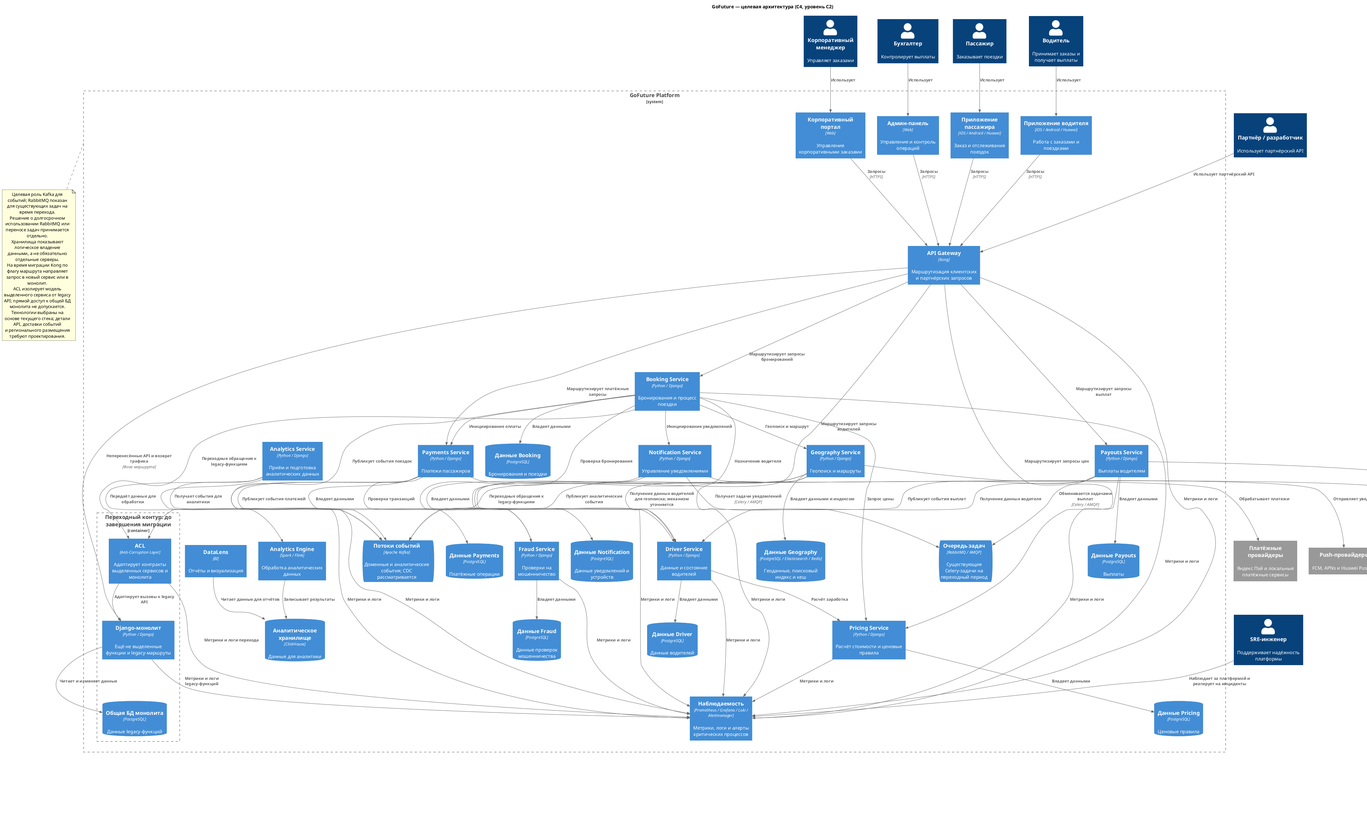
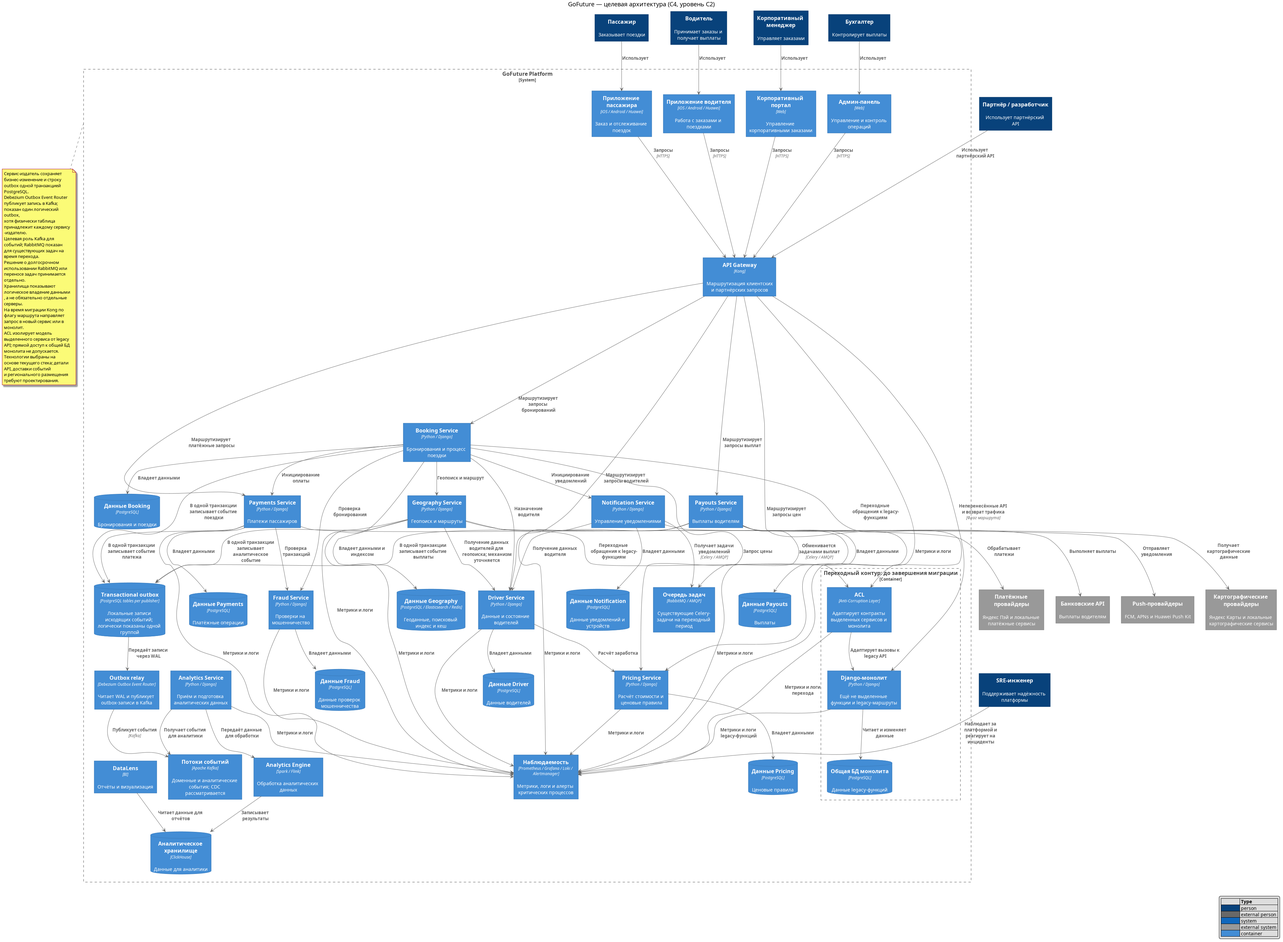
feat: add transactional outbox

diff --git a/tasks/task_1/ADR/ADR-003-kafka-rabbitmq-migration.md b/tasks/task_1/ADR/ADR-003-kafka-rabbitmq-migration.md
@@ -10,13 +10,13 @@
 
 ## Решение
 
-Предлагается использовать **Apache Kafka как целевую платформу для доменных событий и аналитических потоков**, а также рассмотреть её для доставки CDC-событий. RabbitMQ сохраняется для существующих Celery-задач на переходный период. Перенос задач на Kafka или сохранение RabbitMQ как специализированной очереди — отдельное решение по результатам оценки каждого сценария. Наличие двух брокеров во время перехода принимается как осознанная эксплуатационная стоимость, но не означает обязательное существование постоянного моста между ними.
+Предлагается использовать **Apache Kafka как целевую платформу для доменных событий и аналитических потоков**, а также рассмотреть её для доставки CDC-событий. Сервис, который меняет свои данные и публикует доменное или аналитическое событие, записывает его в **transactional outbox** в той же транзакции PostgreSQL. Debezium Outbox Event Router читает эти записи из WAL и публикует их в Kafka. RabbitMQ сохраняется для существующих Celery-задач на переходный период. Перенос задач на Kafka или сохранение RabbitMQ как специализированной очереди — отдельное решение по результатам оценки каждого сценария. Наличие двух брокеров во время перехода принимается как осознанная эксплуатационная стоимость, но не означает обязательное существование постоянного моста между ними.
 
 Kafka может обеспечить независимое чтение событий несколькими группами потребителей, повторное чтение в пределах срока хранения и высокую пропускную способность. Это не гарантирует автоматически более низкую задержку или высокую надёжность: для конкретной нагрузки необходимы испытания, корректная конфигурация и операционная готовность. Синхронные вызовы между сервисами не ускоряются автоматически от внедрения Kafka.
 
 | Вид взаимодействия | Предварительный выбор | Условия |
 |--------------------|-----------------------|---------|
-| Доменные события и аналитика | Kafka | Согласовать схему событий, ключи, хранение и потребителей; оценить возможность восстановления и повторного чтения. |
+| Доменные события и аналитика | Transactional outbox → Debezium Outbox Event Router → Kafka | Сервис сохраняет outbox-запись вместе с бизнес-изменением; согласовать схему событий, ключи, хранение и потребителей. |
 | CDC из PostgreSQL | Debezium → Kafka | Совместимость PostgreSQL, Debezium и Kafka подтверждена; проверить настройки, нагрузку и восстановление в пилоте. |
 | Существующие фоновые задачи Celery | RabbitMQ на переходный период | Сохранить работающие очереди, обработчики и наблюдаемость; перенос задачи проектируется отдельно. |
 | Новые или переносимые задачи с побочными эффектами | Выбор после оценки сценария | Согласовать повторы, отложенное выполнение, обработку ошибок, идемпотентность и совместимость обработчиков; Kafka не является прозрачной заменой RabbitMQ. |
@@ -26,7 +26,13 @@ Kafka может обеспечить независимое чтение соб
 - Для каждого потока определить владельца, источник истины, производителей, потребителей, контракт и версию схемы, ключ события, порядок и срок хранения с учётом требований безопасности и локализации.
 - Конфигурацию репликации и подтверждений, доступность, запас ёмкости и восстановление Kafka и RabbitMQ проверить испытаниями; согласовать допустимые задержки и объём потери данных. Порядок Kafka обеспечивается в пределах одной партиции, а не всего топика.
 - Использовать устойчивые идентификаторы событий и идемпотентные обработчики; предусмотреть повторную доставку, ошибки обработки и восстановление потребителей. Kafka и RabbitMQ не гарантируют сами по себе однократное выполнение внешнего платежа или выплаты.
-- Для согласованной записи в БД и публикации доменного события рассмотреть transactional outbox или другой проверенный механизм. Не считать независимую запись в БД и отправку в брокер атомарной операцией. Для платежей и выплат сохранять ключи идемпотентности и сверять результат с провайдерами.
+- Transactional outbox обязателен для сервисов-издателей доменных и аналитических событий. Запись бизнес-изменения и строки outbox выполняются в одной транзакции PostgreSQL; Debezium публикует запись отдельно. Независимую запись в БД и прямую отправку в брокер нельзя считать атомарной. Для платежей и выплат сохранять ключи идемпотентности и сверять результат с провайдерами.
+
+### Граница transactional outbox
+
+Outbox — это таблица **в БД каждого сервиса-издателя**, а не общая таблица платформы. Её строка содержит технический `outboxId`, тему, Kafka key, payload и время создания. Outbox Event Router передаёт `outboxId` как транспортную метаинформацию; он не заменяет бизнес-ключи и идемпотентность потребителей. Повторная публикация одной строки возможна и должна быть безопасно обработана получателем.
+
+Debezium для outbox отличается от CDC в миграции данных. Outbox передаёт намеренно сформированные доменные сообщения текущего владельца данных; CDC из PostgreSQL → Debezium → Kafka в [плане миграции](data-migration-plan.md) передаёт изменения старой БД во время её переноса. Эти потоки настраиваются и мониторятся отдельно.
 - Мониторить доступность, ошибки, задержки, отставание потребителей и заполнение хранилища; определить ответственных и проверить восстановление. Показатели и пороги согласовать до промышленного переключения.
 
 ## Переход и сосуществование брокеров

diff --git a/tasks/task_2/README.md b/tasks/task_2/README.md
@@ -11,13 +11,14 @@
 - Для координации процесса предложена **Parallel Saga** с асинхронным обменом и итоговой согласованностью. Независимые шаги могут выполняться параллельно, если это допускают бизнес-правила и доступны необходимые данные.
 - Для отдельного от Booking оркестратора предварительно выбрана **Camunda 8 Self-Managed**. BPMN-процесс управляет шагами, ожиданиями, повторами и компенсациями; бизнес-операции выполняют сервисы-владельцы данных.
 - **Apache Kafka** предлагается для команд и событий. Kafka-адаптер связывает Camunda с брокером, а Python-сервисы используют потребителей на `confluent-kafka-python`. Способ интеграции адаптера и обработку сбоев ещё нужно спроектировать и проверить.
+- Сервис-участник сохраняет локальный результат и исходящее событие в **transactional outbox** одной транзакцией PostgreSQL; Debezium Outbox Event Router публикует запись в Kafka. Это не делает состояние Camunda и Kafka атомарными — восстановление адаптера проектируется отдельно.
 - Kafka key содержит **UUID региона владения заказом**. Описаны структура сообщений, правила повторов и DLQ для групп потребителей; порядок между разными топиками не гарантируется.
 - На переходный период функции, остающиеся в монолите, доступны через **ACL**, а существующие задачи Celery могут продолжать использовать **RabbitMQ**.
 - Для наблюдаемости предложены **Prometheus / TSDB и Alertmanager** для метрик и алертов, **Grafana Alloy и Loki с Yandex Object Storage** для логов, **OpenTelemetry и Jaeger с отдельным Elasticsearch** для трассировок. Grafana используется для просмотра данных.
 
 ## Процесс саги
 
-1. Booking создаёт заказ и публикует событие для запуска саги.
+1. Booking создаёт заказ и записывает событие запуска саги в transactional outbox; Debezium публикует его в Kafka.
 2. Geography проверяет зону; затем выполняются необходимые расчёт стоимости, проверка Fraud и поиск водителя. Допустимые независимые шаги могут выполняться параллельно.
 3. Driver назначает водителя, а Booking подтверждает заказ после успешного завершения обязательных шагов.
 4. Оркестратор сохраняет состояние ожидания завершения поездки. После её завершения Pricing рассчитывает итоговую стоимость, а Payments проводит оплату; результат фиксируется в Booking.

diff --git a/tasks/task_2/booking-saga/ADR/ADR-003-commands-and-events.md b/tasks/task_2/booking-saga/ADR/ADR-003-commands-and-events.md
@@ -65,7 +65,7 @@
 
 - **Событие — не команда.** Например, `AssignDriver` — команда оркестратора сервису Driver; `DriverAssigned` — сообщение о результате. Каждая команда адресована конкретному получателю.
 - **Оркестратор управляет сагой.** События участников помогают ему определить следующий шаг, но не заменяют согласованные команды, таймауты и правила компенсаций. При параллельном выполнении необходимо учитывать поздние результаты, в том числе назначение водителя после начала отмены.
-- **Повторная доставка возможна.** Участники безопасно обрабатывают дубликаты по бизнес-данным и ограничениям своей модели. Для согласованной записи состояния и публикации сообщения предусматривается transactional outbox или другой проверенный механизм.
+- **Повторная доставка возможна.** Участники безопасно обрабатывают дубликаты по бизнес-данным и ограничениям своей модели. Для согласованной записи локального состояния и исходящего события используется transactional outbox; Debezium Outbox Event Router публикует строку outbox в Kafka.
 - **Идентификация и версия.** Общие поля, ключ региона и формат команд и событий предварительно описаны в [ADR-004](ADR-004-kafka-topics-and-messages.md). Универсальные `messageId` и `operationId` не вводятся; способ различать повторные и поздние результаты шага ещё требуется спроектировать.
 - **Ошибки и неизвестный результат.** Отсутствие ответа не означает, что команда не выполнена. Для каждой операции нужно определить время ожидания, безопасный повтор и способ проверить состояние участника. В частности, события отказа для `ConfirmBooking` и `CancelBooking` пока не определены: их состав и поведение при ошибке требуют проектирования; нельзя считать заказ подтверждённым или отменённым без проверки результата.
 - **Результат уведомления.** Доставка и повторы уведомлений проектируются отдельно; событие подтверждения заказа само по себе не гарантирует, что уведомление доставлено.

diff --git a/tasks/task_2/booking-saga/ADR/ADR-007-kafka-consumers.md b/tasks/task_2/booking-saga/ADR/ADR-007-kafka-consumers.md
@@ -42,7 +42,7 @@ Camunda 8 / BPMN ← Kafka-адаптер ← Kafka ← Python-сервис
 ## Надёжная обработка
 
 1. Сервис читает сообщение своего топика, определяет регион по Kafka key и проверяет структуру и актуальность операции.
-2. Локальное изменение и публикация результата должны переживать сбои: например, сервис может записать данные и исходящее сообщение в transactional outbox в одной транзакции PostgreSQL, а затем опубликовать сообщение отдельно. Конкретный способ подтверждения операции и отправки события проектируется для каждого сервиса.
+2. Локальное изменение и публикация результата должны переживать сбои: сервис записывает данные и исходящее сообщение в transactional outbox одной транзакцией PostgreSQL. Debezium Outbox Event Router публикует строку в Kafka отдельно; повторная публикация возможна. Конкретные настройки relay, подтверждения публикации и восстановление проектируются для каждого сервиса.
 3. Offset подтверждается **только после надёжного сохранения результата обработки** или надёжной передачи сообщения в DLQ. Сбой до подтверждения может привести к повторной доставке; обработчик должен безопасно её пережить. При использовании outbox подтверждение не означает, что подписчик уже получил событие.
 4. Потребитель использует согласованные повторы и DLQ из ADR-004. Kafka не выполняет повторы бизнес-операций автоматически; для DLQ нужны мониторинг и порядок разбора. При перераспределении партиций, параллельной обработке и закрытии потребителя не подтверждать offset за необработанные более ранние записи.
 5. Driver Service защищает назначение по бизнес-данным заказа и водителя и отдельно обеспечивает правила активного назначения. Payments проверяет собственные операции и сверяется с провайдером при неизвестном результате; повтор команды не должен приводить к повторному списанию.

diff --git a/tasks/task_2/booking-saga/ADR/ADR-004-kafka-topics-and-messages.md b/tasks/task_2/booking-saga/ADR/ADR-004-kafka-topics-and-messages.md
@@ -92,6 +92,8 @@ Kafka key: 550e8400-e29b-41d4-a716-446655440000
 
 Отдельные `messageId`, `operationId`, `idempotencyKey` и `causationId` в общую схему не вводятся. `traceId` и `sagaId` не являются ключами бизнес-идемпотентности. Сервис-получатель защищает свои операции от повторов по бизнес-данным и ограничениям своей модели. Например, Driver Service проверяет назначение по `bookingId` и `driverId`; отдельно необходимо запретить недопустимые одновременные активные назначения.
 
+Исходящее событие сервиса сначала попадает в его transactional outbox. Строка outbox имеет технический `outboxId`, topic, Kafka key региона, payload и время создания; Debezium Outbox Event Router передаёт `outboxId` как транспортную метаинформацию. `outboxId` не добавляется в тело команды или события и не заменяет бизнес-идемпотентность получателя. Повторная публикация одной строки возможна и должна быть безопасной для потребителя.
+
 По `sagaId`, `bookingId`, типу сообщения, состоянию саги и данным шага оркестратор определяет, как обработать ответ. Как надёжно различать несколько попыток одного шага, включая поздний ответ для ранее выбранного водителя, необходимо спроектировать и проверить отдельно; совпадения `sagaId` самого по себе недостаточно.
 
 ## Пример команды
